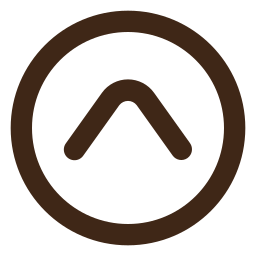
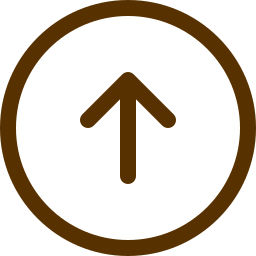
updated CSS of button back-to-top

diff --git a/README.md b/README.md
@@ -23,4 +23,4 @@ Navbar Icon
 <a href="https://www.flaticon.com/free-icons/mail" title="mail icons">Mail icons created by Freepik - Flaticon</a>
 
 Back to Top Button
-<a href="https://www.flaticon.com/free-icons/arrowhead" title="arrowhead icons">Arrowhead icons created by HJ Studio - Flaticon</a>
+<a href="https://www.flaticon.com/free-icons/top" title="top icons">Top icons created by th studio - Flaticon</a>
